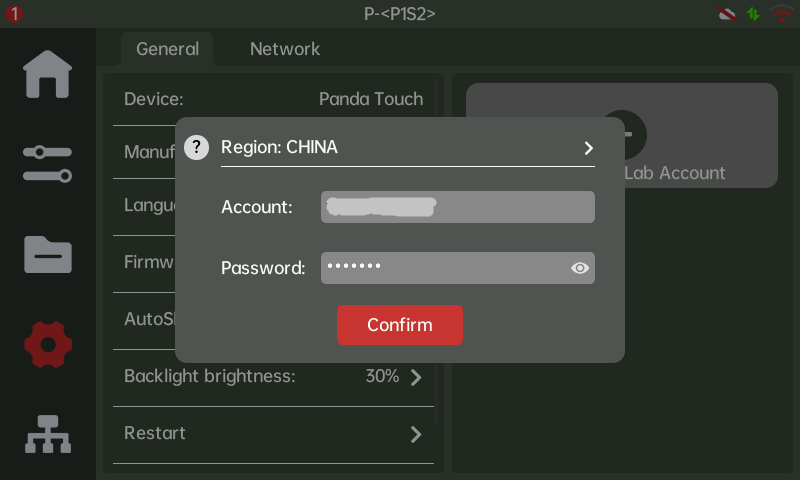
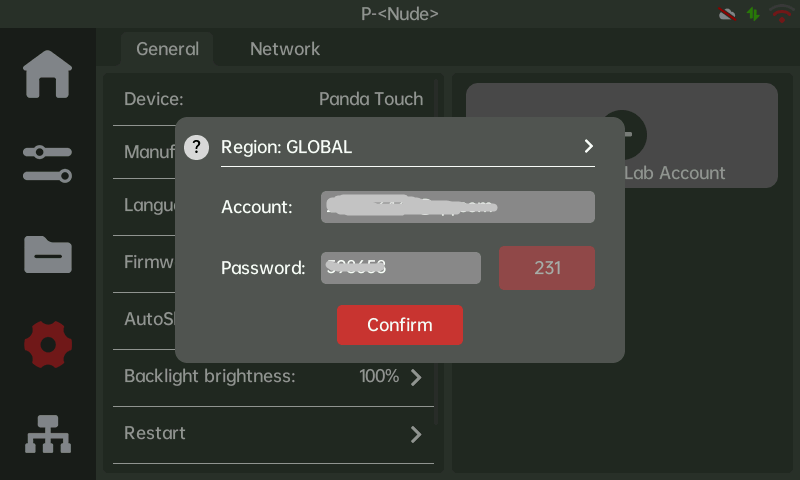
add V1.0.5.1

diff --git a/docs/Panda Touch.md b/docs/Panda Touch.md
@@ -199,7 +199,7 @@ Follow the steps below to enable cloud connectivity to those printers that need 
   <img src=img/PandaTouch/add_account.png width="600"/>
 * Select your region by tapping the arrow at the top right of the resulting pop up.
 * Users in China use mobile phone numbers, while users in global regions use email addresses.
-* If you are unable to find your login credentials then please see the section: [Help I Can't Find My Bambu Lab Login Credentials](#help-i-cant-find-my-bambu-lab-login-credentials) 
+* Press 'Send code' button to get code from email. 
   <br><img src=img/PandaTouch/login.png width="600"/>
 * Tap the confirm button once you've entered the login details.
 
@@ -459,18 +459,6 @@ Use [this tool](https://github.com/bigtreetech/PandaTouch/tree/master/Firmware/1
 
 ## Troubleshooting
 
-### Help, I Can't Find My Bambu Lab Login Credentials
-
-To enable cloud connectivity on the Panda Touch you'll need your Bambu Lab cloud details. If you already know your username and password then you are set! If you created your account using a google login then you'll need to create a password using the steps below:
-
- * Go to www.bambulab.com and login using your google account.
- * Click on the little user icon at the top right and select "Profile Setting".
-
-  <img src=img/PandaTouch/profile_setting.png width="600"/>
- * Click on "Change Password" and follow the steps to set a password for your account.
-
-  <img src=img/PandaTouch/change_password.png width="600"/>
-
 ### Connection Troubleshooting
 
 #### Connect Failed
@@ -557,6 +545,9 @@ If there is something you would like to see in a future release of the Panda Tou
   <br><img src=img/PandaTouch/ota_img_3.png width="660"/>
 
 ### Firmware History
+#### [V1.0.5.1](https://github.com/bigtreetech/PandaTouch/blob/master/Firmware/1.0.5.1/panda_touch-v1.0.5.1.bin) 
+* change the login method: login by email code.
+
 #### [V1.0.5](https://github.com/bigtreetech/PandaTouch/blob/master/Firmware/1.0.5/panda_touch-v1.0.5.bin) 
 * New Panda PWR Binding Mode for Intelligent Power Management of Bambu Lab Printers
   * Features a Panda PWR management interface to display printer power and energy consumption, with control over the. 

diff --git a/docs/PandaTouch.md b/docs/PandaTouch.md
@@ -199,7 +199,7 @@ Follow the steps below to enable cloud connectivity to those printers that need 
   <img src=img/PandaTouch/add_account.png width="600"/>
 * Select your region by tapping the arrow at the top right of the resulting pop up.
 * Users in China use mobile phone numbers, while users in global regions use email addresses.
-* If you are unable to find your login credentials then please see the section: [Help I Can't Find My Bambu Lab Login Credentials](#help-i-cant-find-my-bambu-lab-login-credentials) 
+* Press 'Send code' button to get code from email. 
   <br><img src=img/PandaTouch/login.png width="600"/>
 * Tap the confirm button once you've entered the login details.
 
@@ -459,18 +459,6 @@ Use [this tool](https://github.com/bigtreetech/PandaTouch/tree/master/Firmware/1
 
 ## Troubleshooting
 
-### Help, I Can't Find My Bambu Lab Login Credentials
-
-To enable cloud connectivity on the Panda Touch you'll need your Bambu Lab cloud details. If you already know your username and password then you are set! If you created your account using a google login then you'll need to create a password using the steps below:
-
- * Go to www.bambulab.com and login using your google account.
- * Click on the little user icon at the top right and select "Profile Setting".
-
-  <img src=img/PandaTouch/profile_setting.png width="600"/>
- * Click on "Change Password" and follow the steps to set a password for your account.
-
-  <img src=img/PandaTouch/change_password.png width="600"/>
-
 ### Connection Troubleshooting
 
 #### Connect Failed
@@ -557,6 +545,9 @@ If there is something you would like to see in a future release of the Panda Tou
   <br><img src=img/PandaTouch/ota_img_3.png width="660"/>
 
 ### Firmware History
+#### [V1.0.5.1](https://github.com/bigtreetech/PandaTouch/blob/master/Firmware/1.0.5.1/panda_touch-v1.0.5.1.bin) 
+* change the login method: login by email code.
+
 #### [V1.0.5](https://github.com/bigtreetech/PandaTouch/blob/master/Firmware/1.0.5/panda_touch-v1.0.5.bin) 
 * New Panda PWR Binding Mode for Intelligent Power Management of Bambu Lab Printers
   * Features a Panda PWR management interface to display printer power and energy consumption, with control over the. 

diff --git a/docs/locales/en/Panda Touch.md b/docs/locales/en/Panda Touch.md
@@ -199,7 +199,7 @@ Follow the steps below to enable cloud connectivity to those printers that need 
   <img src=img/PandaTouch/add_account.png width="600"/>
 * Select your region by tapping the arrow at the top right of the resulting pop up.
 * Users in China use mobile phone numbers, while users in global regions use email addresses.
-* If you are unable to find your login credentials then please see the section: [Help I Can't Find My Bambu Lab Login Credentials](#help-i-cant-find-my-bambu-lab-login-credentials) 
+* Press 'Send code' button to get code from email. 
   <br><img src=img/PandaTouch/login.png width="600"/>
 * Tap the confirm button once you've entered the login details.
 
@@ -459,18 +459,6 @@ Use [this tool](https://github.com/bigtreetech/PandaTouch/tree/master/Firmware/1
 
 ## Troubleshooting
 
-### Help, I Can't Find My Bambu Lab Login Credentials
-
-To enable cloud connectivity on the Panda Touch you'll need your Bambu Lab cloud details. If you already know your username and password then you are set! If you created your account using a google login then you'll need to create a password using the steps below:
-
- * Go to www.bambulab.com and login using your google account.
- * Click on the little user icon at the top right and select "Profile Setting".
-
-  <img src=img/PandaTouch/profile_setting.png width="600"/>
- * Click on "Change Password" and follow the steps to set a password for your account.
-
-  <img src=img/PandaTouch/change_password.png width="600"/>
-
 ### Connection Troubleshooting
 
 #### Connect Failed
@@ -557,6 +545,9 @@ If there is something you would like to see in a future release of the Panda Tou
   <br><img src=img/PandaTouch/ota_img_3.png width="660"/>
 
 ### Firmware History
+#### [V1.0.5.1](https://github.com/bigtreetech/PandaTouch/blob/master/Firmware/1.0.5.1/panda_touch-v1.0.5.1.bin) 
+* change the login method: login by email code.
+
 #### [V1.0.5](https://github.com/bigtreetech/PandaTouch/blob/master/Firmware/1.0.5/panda_touch-v1.0.5.bin) 
 * New Panda PWR Binding Mode for Intelligent Power Management of Bambu Lab Printers
   * Features a Panda PWR management interface to display printer power and energy consumption, with control over the. 

diff --git a/docs/locales/en/PandaTouch.md b/docs/locales/en/PandaTouch.md
@@ -199,7 +199,7 @@ Follow the steps below to enable cloud connectivity to those printers that need 
   <img src=img/PandaTouch/add_account.png width="600"/>
 * Select your region by tapping the arrow at the top right of the resulting pop up.
 * Users in China use mobile phone numbers, while users in global regions use email addresses.
-* If you are unable to find your login credentials then please see the section: [Help I Can't Find My Bambu Lab Login Credentials](#help-i-cant-find-my-bambu-lab-login-credentials) 
+* Press 'Send code' button to get code from email. 
   <br><img src=img/PandaTouch/login.png width="600"/>
 * Tap the confirm button once you've entered the login details.
 
@@ -459,18 +459,6 @@ Use [this tool](https://github.com/bigtreetech/PandaTouch/tree/master/Firmware/1
 
 ## Troubleshooting
 
-### Help, I Can't Find My Bambu Lab Login Credentials
-
-To enable cloud connectivity on the Panda Touch you'll need your Bambu Lab cloud details. If you already know your username and password then you are set! If you created your account using a google login then you'll need to create a password using the steps below:
-
- * Go to www.bambulab.com and login using your google account.
- * Click on the little user icon at the top right and select "Profile Setting".
-
-  <img src=img/PandaTouch/profile_setting.png width="600"/>
- * Click on "Change Password" and follow the steps to set a password for your account.
-
-  <img src=img/PandaTouch/change_password.png width="600"/>
-
 ### Connection Troubleshooting
 
 #### Connect Failed
@@ -557,6 +545,9 @@ If there is something you would like to see in a future release of the Panda Tou
   <br><img src=img/PandaTouch/ota_img_3.png width="660"/>
 
 ### Firmware History
+#### [V1.0.5.1](https://github.com/bigtreetech/PandaTouch/blob/master/Firmware/1.0.5.1/panda_touch-v1.0.5.1.bin) 
+* change the login method: login by email code.
+
 #### [V1.0.5](https://github.com/bigtreetech/PandaTouch/blob/master/Firmware/1.0.5/panda_touch-v1.0.5.bin) 
 * New Panda PWR Binding Mode for Intelligent Power Management of Bambu Lab Printers
   * Features a Panda PWR management interface to display printer power and energy consumption, with control over the. 
